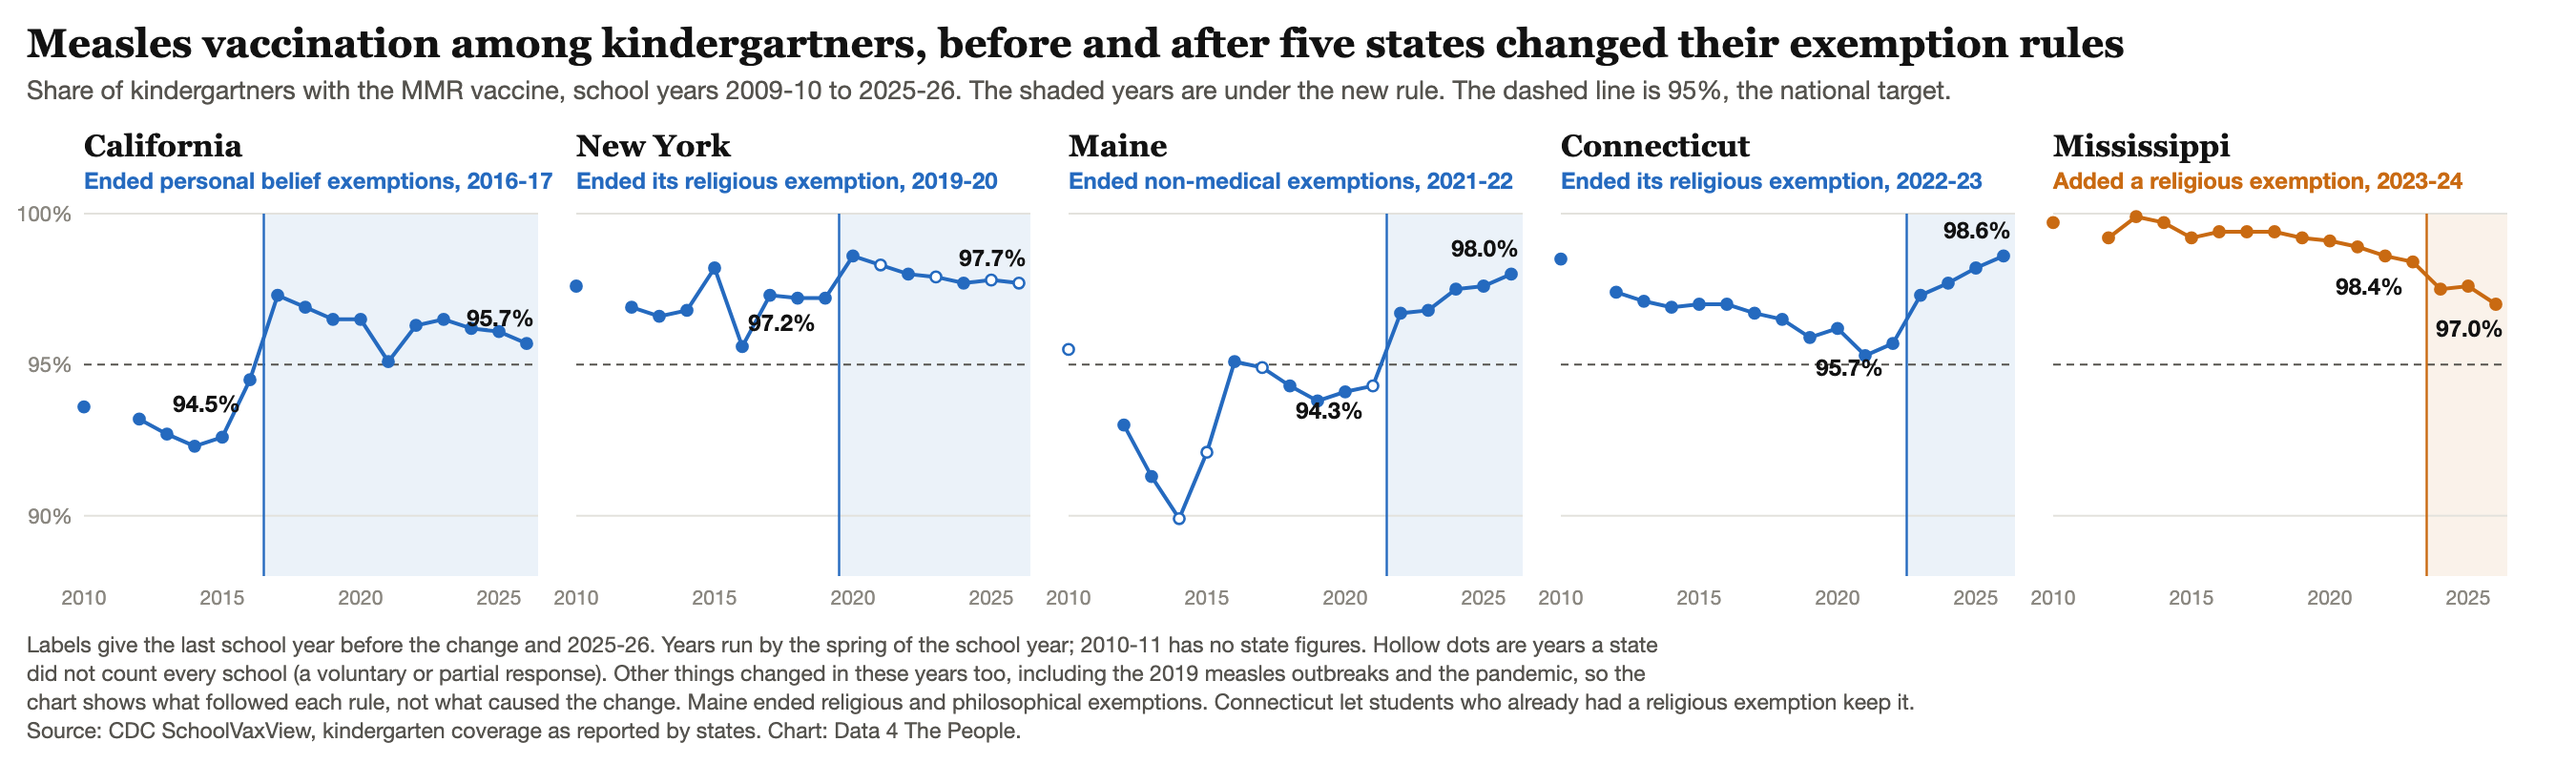
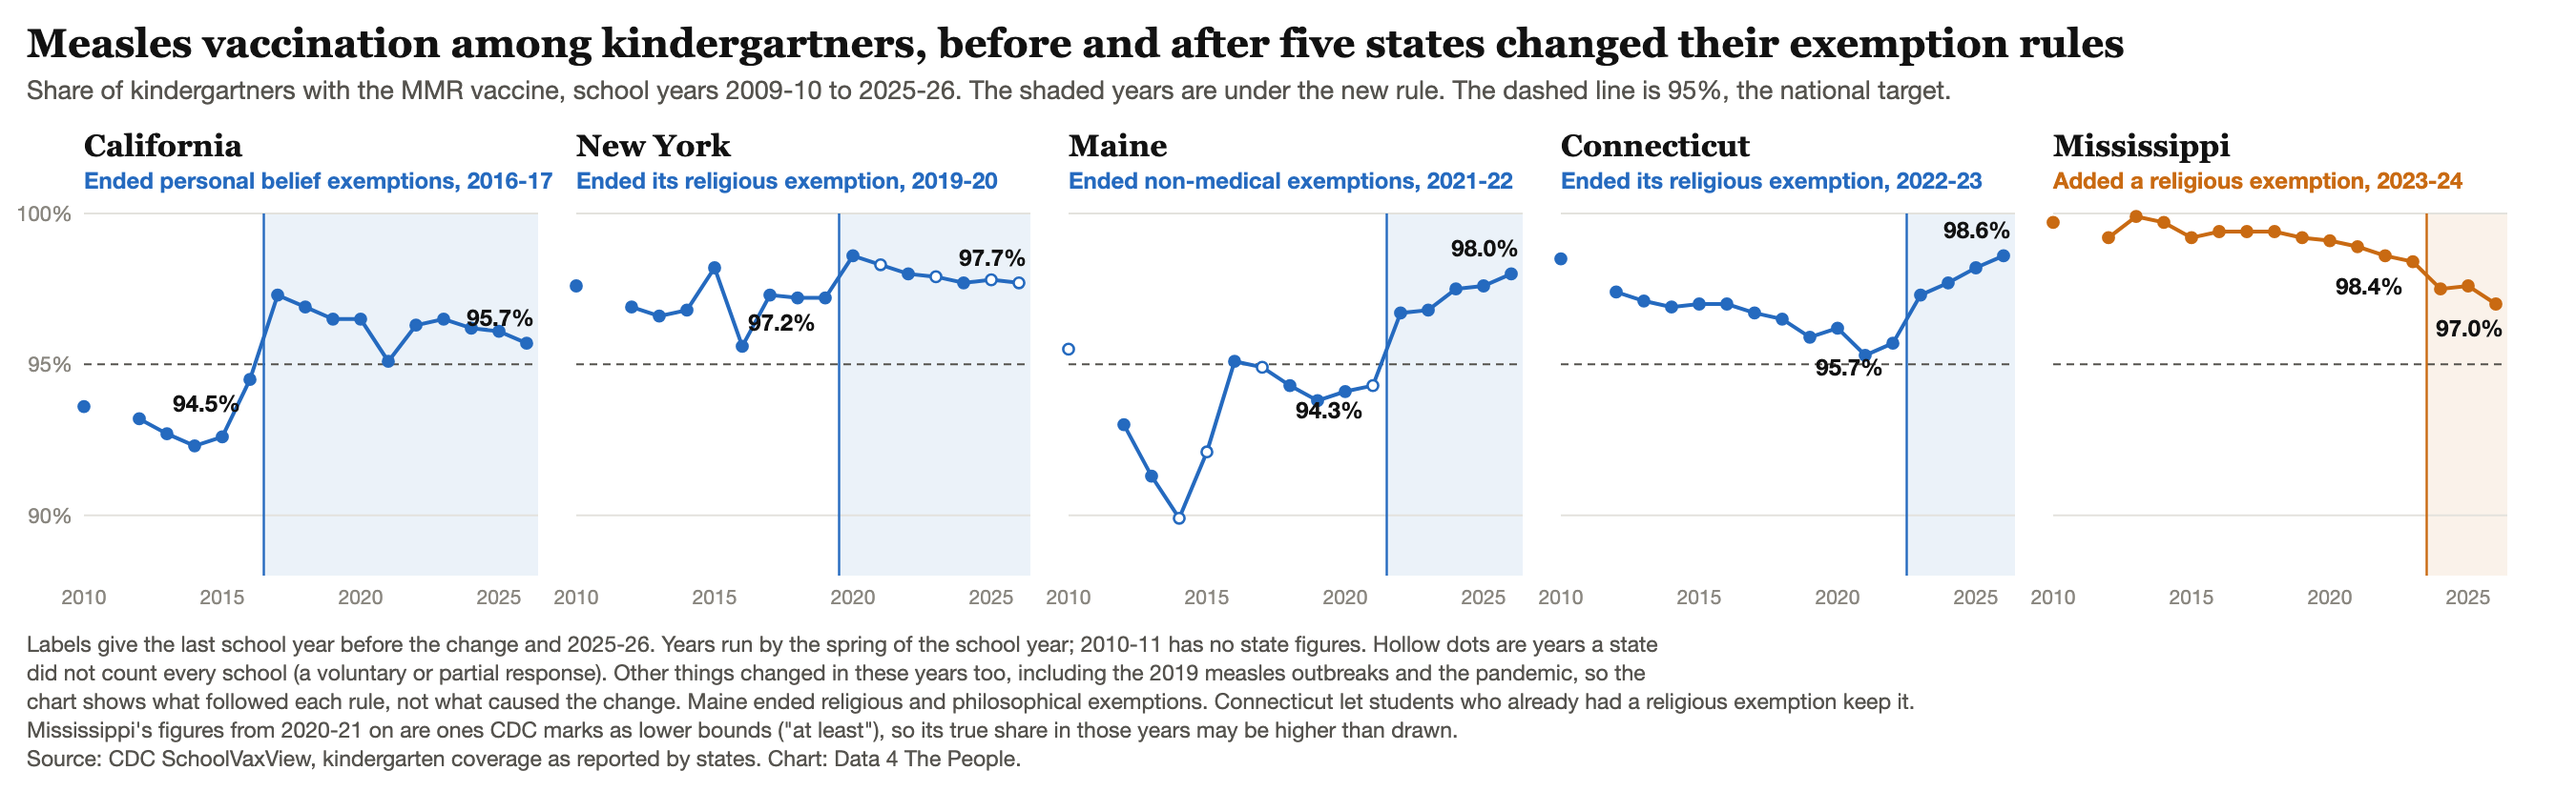
DiseaseVaccinationMap: note that Mississippi's recent kindergarten figures are lower bounds

diff --git a/dist/findings.html b/dist/findings.html
@@ -146,7 +146,7 @@ footer p{max-width:80ch}
 <figure class="county"><figcaption><span class="cname">Connecticut</span><span class="ccases" style="color:#256abf;font-weight:700">Ended its religious exemption, 2022-23</span></figcaption><svg viewBox="0 0 300 190" role="img" aria-label="Kindergarten MMR coverage in Connecticut, 2009-10 to 2025-26: 95.7% in 2021-22, the last school year before the rule change, and 98.6% in 2025-26"><rect x="232.4" y="10" width="61.6" height="158" fill="#256abf" opacity="0.09"/><line x1="34" x2="294" y1="141.7" y2="141.7" stroke="#e3e2dd"/><text x="28" y="145.2" class="tick" text-anchor="end">90%</text><line x1="34" x2="294" y1="75.8" y2="75.8" stroke="#55534e" stroke-dasharray="4 3"/><text x="28" y="79.3" class="tick" text-anchor="end">95%</text><line x1="34" x2="294" y1="10.0" y2="10.0" stroke="#e3e2dd"/><text x="28" y="13.5" class="tick" text-anchor="end">100%</text><text x="34.0" y="184" class="tick" text-anchor="middle">2010</text><text x="113.4" y="184" class="tick" text-anchor="middle">2015</text><text x="192.8" y="184" class="tick" text-anchor="middle">2020</text><text x="272.1" y="184" class="tick" text-anchor="middle">2025</text><line x1="232.4" x2="232.4" y1="10" y2="168" stroke="#256abf" stroke-width="1.2"/><polyline points="34.0,29.8" fill="none" stroke="#256abf" stroke-width="2"/><polyline points="65.8,44.2 81.6,48.2 97.5,50.8 113.4,49.5 129.2,49.5 145.1,53.4 161.0,56.1 176.9,64.0 192.8,60.0 208.6,71.9 224.5,66.6 240.4,45.6 256.2,40.3 272.1,33.7 288.0,28.4" fill="none" stroke="#256abf" stroke-width="2"/><circle cx="34.0" cy="29.8" r="2.8" fill="#256abf" stroke="#256abf" stroke-width="1.3"/><circle cx="65.8" cy="44.2" r="2.8" fill="#256abf" stroke="#256abf" stroke-width="1.3"/><circle cx="81.6" cy="48.2" r="2.8" fill="#256abf" stroke="#256abf" stroke-width="1.3"/><circle cx="97.5" cy="50.8" r="2.8" fill="#256abf" stroke="#256abf" stroke-width="1.3"/><circle cx="113.4" cy="49.5" r="2.8" fill="#256abf" stroke="#256abf" stroke-width="1.3"/><circle cx="129.2" cy="49.5" r="2.8" fill="#256abf" stroke="#256abf" stroke-width="1.3"/><circle cx="145.1" cy="53.4" r="2.8" fill="#256abf" stroke="#256abf" stroke-width="1.3"/><circle cx="161.0" cy="56.1" r="2.8" fill="#256abf" stroke="#256abf" stroke-width="1.3"/><circle cx="176.9" cy="64.0" r="2.8" fill="#256abf" stroke="#256abf" stroke-width="1.3"/><circle cx="192.8" cy="60.0" r="2.8" fill="#256abf" stroke="#256abf" stroke-width="1.3"/><circle cx="208.6" cy="71.9" r="2.8" fill="#256abf" stroke="#256abf" stroke-width="1.3"/><circle cx="224.5" cy="66.6" r="2.8" fill="#256abf" stroke="#256abf" stroke-width="1.3"/><circle cx="240.4" cy="45.6" r="2.8" fill="#256abf" stroke="#256abf" stroke-width="1.3"/><circle cx="256.2" cy="40.3" r="2.8" fill="#256abf" stroke="#256abf" stroke-width="1.3"/><circle cx="272.1" cy="33.7" r="2.8" fill="#256abf" stroke="#256abf" stroke-width="1.3"/><circle cx="288.0" cy="28.4" r="2.8" fill="#256abf" stroke="#256abf" stroke-width="1.3"/><text x="219.5" y="83.6" class="val" text-anchor="end">95.7%</text><text x="292" y="19.4" class="val" text-anchor="end">98.6%</text></svg></figure>
 <figure class="county"><figcaption><span class="cname">Mississippi</span><span class="ccases" style="color:#c96a12;font-weight:700">Added a religious exemption, 2023-24</span></figcaption><svg viewBox="0 0 300 190" role="img" aria-label="Kindergarten MMR coverage in Mississippi, 2009-10 to 2025-26: 98.4% in 2022-23, the last school year before the rule change, and 97.0% in 2025-26"><rect x="248.3" y="10" width="45.7" height="158" fill="#c96a12" opacity="0.09"/><line x1="34" x2="294" y1="141.7" y2="141.7" stroke="#e3e2dd"/><text x="28" y="145.2" class="tick" text-anchor="end">90%</text><line x1="34" x2="294" y1="75.8" y2="75.8" stroke="#55534e" stroke-dasharray="4 3"/><text x="28" y="79.3" class="tick" text-anchor="end">95%</text><line x1="34" x2="294" y1="10.0" y2="10.0" stroke="#e3e2dd"/><text x="28" y="13.5" class="tick" text-anchor="end">100%</text><text x="34.0" y="184" class="tick" text-anchor="middle">2010</text><text x="113.4" y="184" class="tick" text-anchor="middle">2015</text><text x="192.8" y="184" class="tick" text-anchor="middle">2020</text><text x="272.1" y="184" class="tick" text-anchor="middle">2025</text><line x1="248.3" x2="248.3" y1="10" y2="168" stroke="#c96a12" stroke-width="1.2"/><polyline points="34.0,13.9" fill="none" stroke="#c96a12" stroke-width="2"/><polyline points="65.8,20.5 81.6,11.3 97.5,13.9 113.4,20.5 129.2,17.9 145.1,17.9 161.0,17.9 176.9,20.5 192.8,21.9 208.6,24.5 224.5,28.4 240.4,31.1 256.2,42.9 272.1,41.6 288.0,49.5" fill="none" stroke="#c96a12" stroke-width="2"/><circle cx="34.0" cy="13.9" r="2.8" fill="#c96a12" stroke="#c96a12" stroke-width="1.3"/><circle cx="65.8" cy="20.5" r="2.8" fill="#c96a12" stroke="#c96a12" stroke-width="1.3"/><circle cx="81.6" cy="11.3" r="2.8" fill="#c96a12" stroke="#c96a12" stroke-width="1.3"/><circle cx="97.5" cy="13.9" r="2.8" fill="#c96a12" stroke="#c96a12" stroke-width="1.3"/><circle cx="113.4" cy="20.5" r="2.8" fill="#c96a12" stroke="#c96a12" stroke-width="1.3"/><circle cx="129.2" cy="17.9" r="2.8" fill="#c96a12" stroke="#c96a12" stroke-width="1.3"/><circle cx="145.1" cy="17.9" r="2.8" fill="#c96a12" stroke="#c96a12" stroke-width="1.3"/><circle cx="161.0" cy="17.9" r="2.8" fill="#c96a12" stroke="#c96a12" stroke-width="1.3"/><circle cx="176.9" cy="20.5" r="2.8" fill="#c96a12" stroke="#c96a12" stroke-width="1.3"/><circle cx="192.8" cy="21.9" r="2.8" fill="#c96a12" stroke="#c96a12" stroke-width="1.3"/><circle cx="208.6" cy="24.5" r="2.8" fill="#c96a12" stroke="#c96a12" stroke-width="1.3"/><circle cx="224.5" cy="28.4" r="2.8" fill="#c96a12" stroke="#c96a12" stroke-width="1.3"/><circle cx="240.4" cy="31.1" r="2.8" fill="#c96a12" stroke="#c96a12" stroke-width="1.3"/><circle cx="256.2" cy="42.9" r="2.8" fill="#c96a12" stroke="#c96a12" stroke-width="1.3"/><circle cx="272.1" cy="41.6" r="2.8" fill="#c96a12" stroke="#c96a12" stroke-width="1.3"/><circle cx="288.0" cy="49.5" r="2.8" fill="#c96a12" stroke="#c96a12" stroke-width="1.3"/><text x="235.4" y="48.1" class="val" text-anchor="end">98.4%</text><text x="292" y="66.5" class="val" text-anchor="end">97.0%</text></svg></figure>
   </div>
-  <p class="figcap">Kindergarten MMR coverage before and after each rule change. Labels give the last school year before the change and 2025-26. Years run by the spring of the school year; 2010-11 has no state figures. Hollow dots are years a state did not count every school. California's coverage was already rising in 2015-16, the year after its law was signed, and New York's changed by half a point. Other things changed in these years too, including the 2019 measles outbreaks and the pandemic. Maine's law ended religious and philosophical exemptions; Connecticut let students who already had a religious exemption keep it. Source: CDC SchoolVaxView, as reported by states.</p>
+  <p class="figcap">Kindergarten MMR coverage before and after each rule change. Labels give the last school year before the change and 2025-26. Years run by the spring of the school year; 2010-11 has no state figures. Hollow dots are years a state did not count every school. California's coverage was already rising in 2015-16, the year after its law was signed, and New York's changed by half a point. Other things changed in these years too, including the 2019 measles outbreaks and the pandemic. Maine's law ended religious and philosophical exemptions; Connecticut let students who already had a religious exemption keep it. Mississippi's figures from 2020-21 on are ones CDC marks as lower bounds (“at least”), so its true share in those years may be higher than drawn. Source: CDC SchoolVaxView, as reported by states.</p>
   <div class="col">
     <div class="src"><p>Mississippi State Department of Health, <a href="https://msdh.ms.gov/Page/resources/19957.pdf" target="_blank" rel="noopener">notice on the religious exemption process</a>, offered from July 15, 2023, under a federal court order (Bosarge v. Edney, April 2023). Mississippi's coverage was 98.4% in 2022-23 and 97.0% in 2025-26.</p></div>
     <p>The table gives each law and one earlier and one later reading; its earlier year is not always the last one before the rule, which is the year the charts label.</p>

diff --git a/analysis/findings_template.html b/analysis/findings_template.html
@@ -129,7 +129,7 @@ footer p{max-width:80ch}
   <div class="grid-c">
 <!--EXEMPTION_RULES-->
   </div>
-  <p class="figcap">Kindergarten MMR coverage before and after each rule change. Labels give the last school year before the change and 2025-26. Years run by the spring of the school year; 2010-11 has no state figures. Hollow dots are years a state did not count every school. California's coverage was already rising in 2015-16, the year after its law was signed, and New York's changed by half a point. Other things changed in these years too, including the 2019 measles outbreaks and the pandemic. Maine's law ended religious and philosophical exemptions; Connecticut let students who already had a religious exemption keep it. Source: CDC SchoolVaxView, as reported by states.</p>
+  <p class="figcap">Kindergarten MMR coverage before and after each rule change. Labels give the last school year before the change and 2025-26. Years run by the spring of the school year; 2010-11 has no state figures. Hollow dots are years a state did not count every school. California's coverage was already rising in 2015-16, the year after its law was signed, and New York's changed by half a point. Other things changed in these years too, including the 2019 measles outbreaks and the pandemic. Maine's law ended religious and philosophical exemptions; Connecticut let students who already had a religious exemption keep it. Mississippi's figures from 2020-21 on are ones CDC marks as lower bounds (“at least”), so its true share in those years may be higher than drawn. Source: CDC SchoolVaxView, as reported by states.</p>
   <div class="col">
     <div class="src"><p>Mississippi State Department of Health, <a href="https://msdh.ms.gov/Page/resources/19957.pdf" target="_blank" rel="noopener">notice on the religious exemption process</a>, offered from July 15, 2023, under a federal court order (Bosarge v. Edney, April 2023). Mississippi's coverage was 98.4% in 2022-23 and 97.0% in 2025-26.</p></div>
     <p>The table gives each law and one earlier and one later reading; its earlier year is not always the last one before the rule, which is the year the charts label.</p>

diff --git a/analysis/03_exemption_rules_chart.py b/analysis/03_exemption_rules_chart.py
@@ -79,7 +79,7 @@ def main():
     v = pd.read_csv(ROOT / "data" / "vaccination.csv")
     k = v[(v.series == "kinder") & (v.vaccine == "mmr") & v.estimate.notna()]
     pw, ph, gap, ml, mt = 232, 190, 26, 44, 112
-    W, H = ml + len(RULES) * pw + (len(RULES) - 1) * gap + 16, mt + ph + 96
+    W, H = ml + len(RULES) * pw + (len(RULES) - 1) * gap + 16, mt + ph + 111
     X = lambda i, y: ml + i * (pw + gap) + (y - Y0) / (Y1 - Y0) * pw  # noqa: E731
     Y = lambda val: mt + (V1 - val) / (V1 - V0) * ph  # noqa: E731
     s = [f'<svg xmlns="http://www.w3.org/2000/svg" viewBox="0 0 {W} {H}" width="{W}" height="{H}" font-family="Helvetica Neue,Helvetica,Arial,sans-serif">',
@@ -131,6 +131,7 @@ def main():
     notes = ["Labels give the last school year before the change and 2025-26. Years run by the spring of the school year; 2010-11 has no state figures. Hollow dots are years a state",
              "did not count every school (a voluntary or partial response). Other things changed in these years too, including the 2019 measles outbreaks and the pandemic, so the",
              "chart shows what followed each rule, not what caused the change. Maine ended religious and philosophical exemptions. Connecticut let students who already had a religious exemption keep it.",
+             "Mississippi's figures from 2020-21 on are ones CDC marks as lower bounds (\"at least\"), so its true share in those years may be higher than drawn.",
              "Source: CDC SchoolVaxView, kindergarten coverage as reported by states. Chart: Data 4 The People."]
     for j, t in enumerate(notes):
         s.append(f'<text x="{ml - 30}" y="{fy + j * 15}" font-size="11.5" fill="{INK2}">{t}</text>')

diff --git a/analysis/FINDINGS.md b/analysis/FINDINGS.md
@@ -120,7 +120,10 @@ exemptions from 1979 (Brown v. Stone) until a federal court ordered a religious
 exemption in April 2023 (Bosarge v. Edney), offered from July 15, 2023.
 Kindergarten MMR coverage was 99.1% to 99.9% from 2009-10 to 2019-20, the
 highest in the country, 98.4% in 2022-23 and 97.0% in 2025-26. It was already
-slipping slowly before the order. Source for the order: Mississippi State
+slipping slowly before the order. Caution: CDC marks Mississippi's figures from
+2020-21 on as lower bounds (">="), so the true share in those years may be
+higher, and part of the slip from 99.1% (2019-20) to 98.9% (2020-21) may be a
+change in how the figure was reported. Source for the order: Mississippi State
 Department of Health notice, https://msdh.ms.gov/Page/resources/19957.pdf
 (found by search; not yet read line by line).
 
